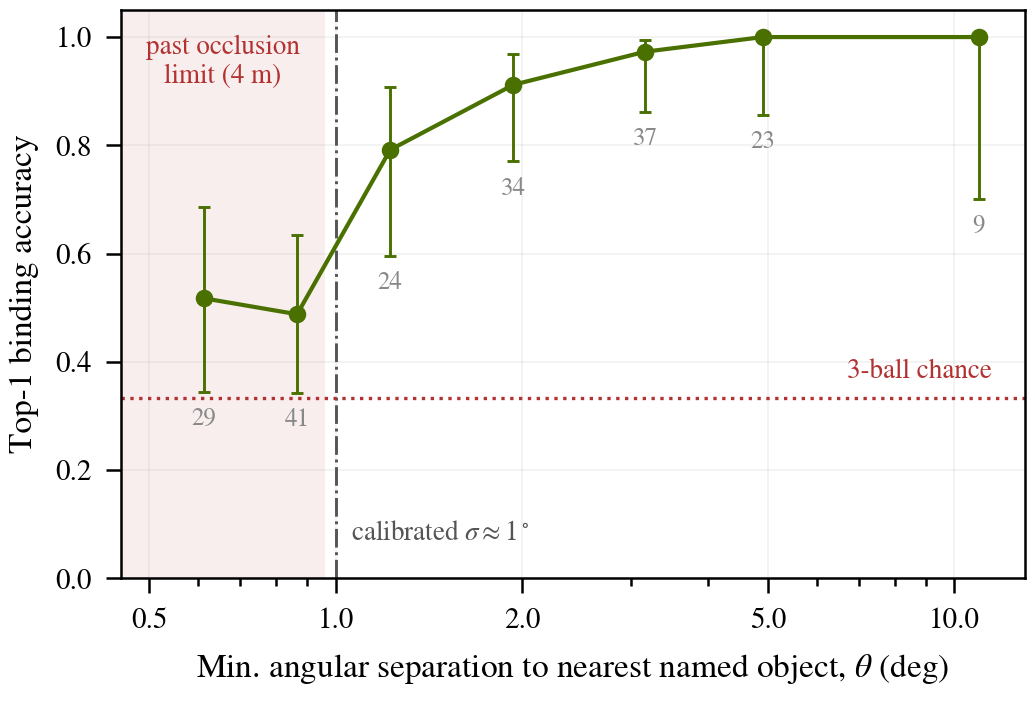
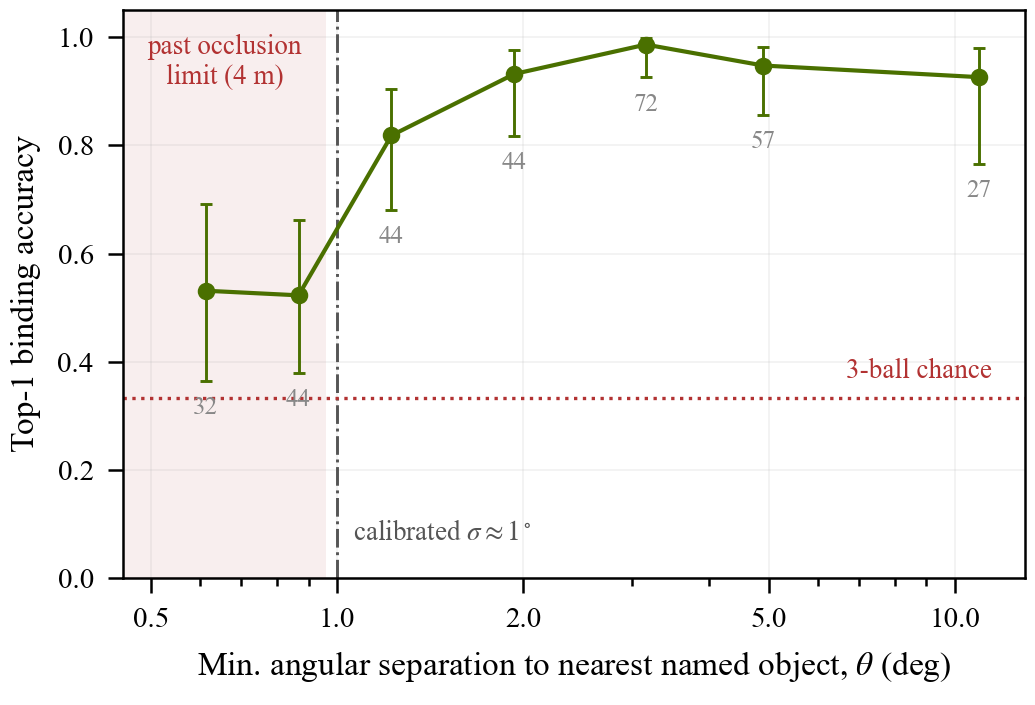
9-07 目标级遮挡标签:collect_e1 加 occ=甲|乙 语法,v6_far 的香蕉/橘子/白杯2(正对 2.99m 可见高度 0/18/45%)打 beyond_occ,trials.csv 同步;plot_fig4 打印清晰/遮挡拆分与首箱以下 trial;Fig.4 用 330 trial 重出(清晰 26/37=70.3% vs 遮挡 16/48=33.3%)

diff --git a/Eye_Tracker/tools/collect_e1.py b/Eye_Tracker/tools/collect_e1.py
@@ -23,6 +23,7 @@ R = Path("/home/liuchy/recordings")
 
 # (csv 路径, 卡, 房间, 地图, 站位描述, 标签集)
 # 标签:stress=前排俘获压力段(不进主曲线);beyond_occ=超物理遮挡极限(进曲线,单独标记)
+# occ=甲|乙 = 目标级遮挡:该录像里目标为甲/乙的 trial 打 beyond_occ(其余目标不打),用于同一站位只有第二排被挡的情形
 RECS = [
     (R/"2026_08_16/000/e1_score.csv", "e1", "老房", "v7", "1.4-1.7m 正对", set()),
     (R/"2026_08_16/001/e2_score.csv", "e2", "老房", "v7", "3.1m 正对", {"stress"}),
@@ -52,7 +53,9 @@ RECS = [
     (R/"2026_09_07/v1_near/v1_score.csv",      "v1", "新房", "v10", "1.34m α-17°", set()),
     (R/"2026_09_07/v2_near/v2_score.csv",      "v2", "新房", "v10", "1.26m α+23°", set()),
     (R/"2026_09_07/v2_near_p2/v2_score.csv",   "v2", "新房", "v10", "1.05m α-25°", {"p2"}),
-    (R/"2026_09_07/v6_far/v6_score.csv",       "v6", "新房", "v10", "2.99m 正对", set()),
+    # 目标级遮挡标签(09-07):正对 2.99 m 时第二排目标按"可见高度比 <50%"判遮挡(v10 地图几何,眼高 1.55 m:
+    # 香蕉在苹果红后 0%、橘子在白杯1后 18%、白杯2在网球R后 45%;苹果粉在网球L后 100% 不标);v6_mid 1.80 m 全部 ≥65% 不标
+    (R/"2026_09_07/v6_far/v6_score.csv",       "v6", "新房", "v10", "2.99m 正对", {"occ=香蕉|橘子|白杯2"}),
     (R/"2026_09_07/v6_mid/v6_score.csv",       "v6", "新房", "v10", "1.80m 正对", set()),
     (R/"2026_09_07/v6_near/v6_score.csv",      "v6", "新房", "v10", "1.23m α-24°", set()),
     (R/"2026_09_07/v6_move/v6_score.csv",      "v6", "新房", "v10", "1.1m 边走", {"walking"}),
@@ -69,12 +72,18 @@ def unit_rows(csv_path, card, room, mapv, station, tags):
         if th:
             thetas.append(float(th))
     med = float(np.median(thetas)) if thetas else ""
+    occ_targets = set()
+    for t in tags:
+        if t.startswith("occ="):
+            occ_targets |= set(t[4:].split("|"))
+    base_tags = {t for t in tags if not t.startswith("occ=")}
     for r in csv.DictReader(csv_path.open(encoding="utf-8")):
         v = r["verdict"]
         m = re.match(r"^(.*?)(?:×(\d+))?$", r["want"])
         name, k = m.group(1), int(m.group(2) or 1)
+        row_tags = base_tags | ({"beyond_occ"} if name in occ_targets else set())
         base = dict(rec=str(csv_path.parent.name), card=card, room=room, map=mapv,
-                    station=station, tags="|".join(sorted(tags)),
+                    station=station, tags="|".join(sorted(row_tags)),
                     target=name, vote=r["vote"], dur_s=r["dur_s"], dist_m=r["dist_m"])
         tu = r.get("theta_unit_deg", "")
         if v == "＋多余":

diff --git a/Eye_Tracker/tools/plot_fig4.py b/Eye_Tracker/tools/plot_fig4.py
@@ -125,6 +125,20 @@ def main():
     n = sum(r["n"] for r in rows)
     h = sum(r["hits"] for r in rows)
     print(f"total {n} trials, {h} hits ({h/n:.1%})")
+    # 正文 TBD{E1-far} 的清晰/遮挡拆分(beyond_occ 逐 trial 标签;θ<1° 含首箱以下的 trial)
+    main = [r for r in csv.DictReader((DATA / "trials.csv").open(encoding="utf-8"))
+            if r["outcome"] in ("hit", "miss") and not ({"stress", "walking"} & set(r["tags"].split("|"))) and r["theta_deg"]]
+    below = [r for r in main if float(r["theta_deg"]) < BINS[0]]
+    print(f"main set {len(main)} trials; {len(below)} below first bin ({BINS[0]}°), not drawn: "
+          + ", ".join(f"{r['rec']}/{r['target']}/{r['outcome']}" for r in below))
+    for lo, hi in ((0.0, SIGMA_DEG), (BINS[0], SIGMA_DEG), (SIGMA_DEG, 2.5)):
+        for cond in ("clear", "occluded"):
+            s = [r for r in main if lo <= float(r["theta_deg"]) < hi
+                 and (("beyond_occ" in r["tags"].split("|")) == (cond == "occluded"))]
+            if not s:
+                continue
+            hh = sum(1 for r in s if r["outcome"] == "hit"); wl, wh = wilson(hh, len(s))
+            print(f"theta [{lo},{hi}) {cond:>8}: {hh}/{len(s)} = {hh/len(s):.1%}  Wilson [{wl:.1%}, {wh:.1%}]")
     print(f"-> {DATA}/fig4.pdf fig4.png")
 
 

diff --git a/docs/E1_RESULTS.md b/docs/E1_RESULTS.md
@@ -111,3 +111,10 @@ u1 正对站侧向分量 3.7cm(≈0.6°)叠加后排水果邻近,全场票面 <0
 **口径提醒**:论文 θ 对全部命名物算,v10 第二排就在球正后方,所以球卡 3 m 以外 θ<1.5°、卡片标题里的 6.9°/3.0° 是只算三球的数;补 4–6°/6–20° 两箱靠 1.2–1.5 m 近站。
 **主曲线更新:330 trial(v7 69 / v8 45 / v9 117 / v10 126 非边走)**,分箱 n:0.5–0.75 32 · 0.75–1 44 · 1–1.5 44 · 1.5–2.5 44 · 2.5–4 72 · 4–6 57 · 6–20 27;
 精度 0.53 / 0.52 / 0.82 / 0.93 / 0.99 / 0.95 / 0.93。顶部两箱从 1.00 降到 0.93–0.95,全部是近站的 R 连击被杯子插段与 p2 盯错球所致。参与者 3 人(作者 354 trial、p1 30、p2 15,含边走)。
+
+**目标级遮挡标签(09-07 加,collect_e1 `occ=` 语法)**:v10 的遮挡发生在"第二排目标被前排挡住",与站位无关而与目标有关。
+按 v10 地图几何算正对 2.99 m 处第二排目标的可见高度比(眼高 1.55 m):香蕉在苹果红后 0%、橘子在白杯1后 18%、白杯2在网球R后 45%
+→ 这三者判遮挡(beyond_occ);苹果粉在网球L后 100%、v6_mid 1.80 m 全部 ≥65% 不标。结果:v6_far 遮挡目标 0/4、清晰目标 7/8。
+拆分数字(θ<1°,含 θ<0.5 的 9 条;`plot_fig4.py` 现在会打印):**清晰 26/37 = 70.3% [54.2, 82.5] vs 遮挡 16/48 = 33.3% [21.7, 47.5]**;
+[0.5,1) 箱内清晰 24/30 = 80.0%、遮挡 16/46 = 34.8%。不打这三条标签时清晰会被拉到 26/40 = 65.0%(要退回:删掉 RECS 里 v6_far 的 occ= 标签重跑 collect_e1)。
+⚠ Fig.4 首箱从 0.5° 起,θ<0.5° 的 9 条主集 trial(v9 000/001 六条、v6_far 三条)不在图上但计入文字口径。
